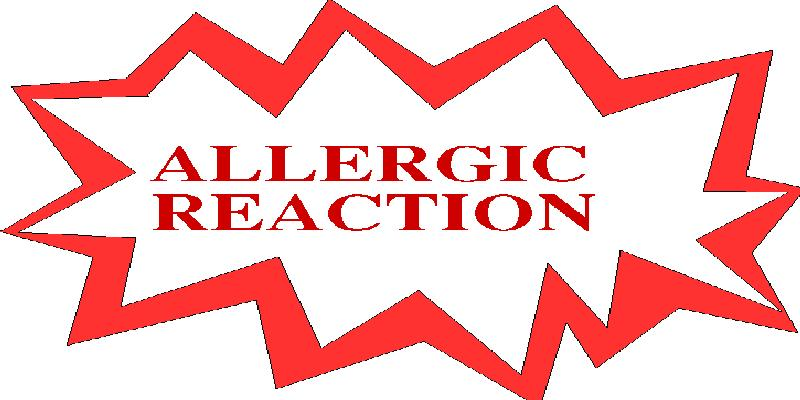
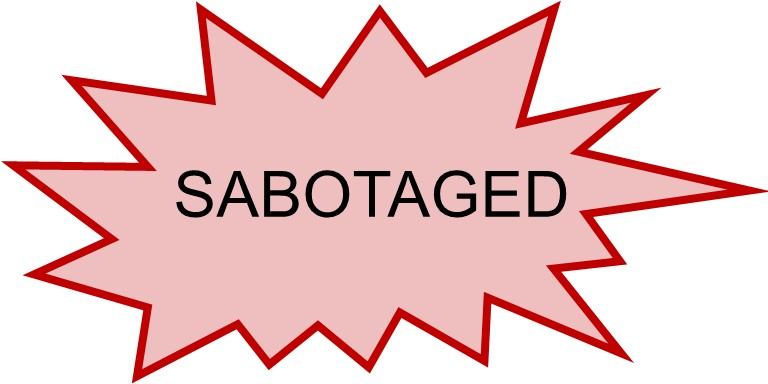
modified feedback stimuli

diff --git a/exp/conf.js b/exp/conf.js
@@ -15,6 +15,8 @@ const qualtrics = "https://yalesurvey.ca1.qualtrics.com/jfe/form/SV_0U3wW3G3HfY8
 const taskVersion="social";
 let fileExtension;
 let instructions1;
+let feedbackNegative;
+let feedbackPositive;
 
 
 switch(taskVersion) {
@@ -31,6 +33,8 @@ switch(taskVersion) {
    instructions3='<h2 style="color:black;">To predict that a particular meal <strong><u>will not</strong></u> cause an allergy please press the <q><strong>0</strong></q> key on the keyboard.</h2>'+
    '<h2 style="color:black;">To predict that a meal <b><u>will cause</b></u> an allergic reaction please press the <q><strong>1</strong></q> key on the keyboard.</h2>'+
    '<p style="color:black;">Press either of the response keys to continue.</p>';
+   feedbackNegative='<img src=stimuli/allergy/-.jpg ></img>';
+   feedbackPositive='<img src=stimuli/allergy/+.jpg ></img>';
     break;
   case "social":
     fileExtension='.png';
@@ -45,7 +49,8 @@ switch(taskVersion) {
     instructions3='<h2 style="color:black;">To predict that a co-worker <strong><u>will not</strong></u> sabotage you, please press the <q><strong>0</strong></q> key on the keyboard.</h2>'+
     '<h2 style="color:black;">To predict that a co-worker <b><u>will sabotage</b></u> you please press the <q><strong>1</strong></q> key on the keyboard.</h2>'+
     '<p style="color:black;">Press either of the response keys to continue.</p>';
-    // '<h2 style="color:black;">You are being harassed by your co-workers, who is it???.</p>';
+    feedbackNegative='<img src=stimuli/social/-.jpg ></img>';
+    feedbackPositive='<img src=stimuli/social/+.jpg ></img>';
     break;
   case "nonsocial":
     break;

diff --git a/exp/timeline.js b/exp/timeline.js
@@ -168,12 +168,15 @@ let feedback = {
     let last_trial_feedback = jsPsych.data.get().last(1).values()[0].correct_response;
     if (last_trial_feedback == 49) { // if last correct_response == 49 (1 key)
         // return '<div style="color:red; font-size:60px;">ALLERGIC REACTION!</div>'
-        return '<img src=stimuli/+.jpg ></img>'
+        // return '<img src=stimuli/social/+.jpg ></img>'
+        return feedbackPositive
     } else if (last_trial_feedback == 48) { // if last correct_response == 48 (0 key)
         // return '<div style="color:green; font-size:60px;">NO REACTION</div>'
-        return '<img src=stimuli/-.jpg ></img>'
+        // return '<img src=stimuli/social/-.jpg ></img>'
+        return feedbackNegative
     }
     },
+
     choices: jsPsych.NO_KEYS,
     trial_duration: 1000,
     response_ends_trial: false,

diff --git a/exp/main.js b/exp/main.js
@@ -36,7 +36,7 @@ timeline.push(instructions_3);
 // timeline.push(instructions_4);
 // timeline.push(instructions_5);
 
-// timeline.push(practice_procedure);
+ timeline.push(practice_procedure);
 
 // timeline.push(instructions_6);
 
